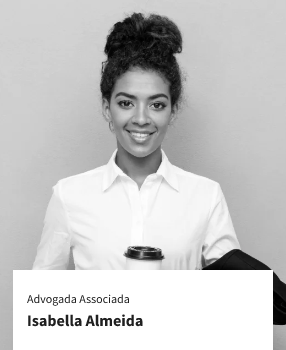
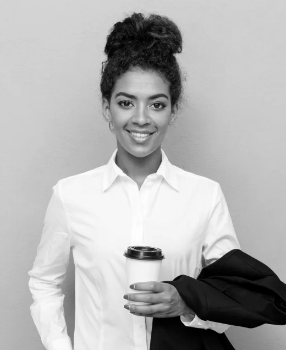
css semi finalizado cards equipe

Changed region(s): [[0.028, 0.7714, 0.979, 1.0]]

diff --git a/assets/css/style.css b/assets/css/style.css
@@ -737,6 +737,16 @@ a {
   position: relative;
   height: 350px;
   overflow: hidden;
+  transition: all 0.3s;
+}
+.equipe-txt .equipe-txt-card:hover .equipe-txt-adv {
+  transform: translateX(-50%) translateY(0px);
+}
+.equipe-txt .equipe-txt-card:hover .equipe-txt-hidden {
+  display: block;
+}
+.equipe-txt .equipe-txt-card img {
+  height: 350px;
 }
 .equipe-txt .equipe-txt-adv {
   background-color: #fff;
@@ -744,6 +754,27 @@ a {
   bottom: 0;
   left: 50%;
   width: 90%;
-  transform: translateX(-50%);
-  transition: all 0.3s;
+  transform: translateX(-50%) translateY(40px);
+  margin-top: -40px;
+  padding: 20px 20px 60px 20px;
+}
+.equipe-txt .equipe-txt-cat {
+  font-size: 12px;
+  line-height: 100%;
+}
+.equipe-txt .equipe-txt-nome {
+  font-size: 16px;
+  line-height: 140%;
+  font-weight: 700;
+}
+.equipe-txt .equipe-txt-desc {
+  font-size: 12px;
+  line-height: 140%;
+}
+.equipe-txt .equipe-txt-oab {
+  font-size: 14px;
+  line-height: 140%;
+}
+.equipe-txt .equipe-txt-hidden {
+  display: none;
 }/*# sourceMappingURL=style.css.map */

diff --git a/assets/css/elements/others/_adv.scss b/assets/css/elements/others/_adv.scss
@@ -33,6 +33,20 @@
     position: relative;
     height: 350px;
     overflow: hidden;
+    transition: all 0.3s;
+
+    &:hover {
+      .equipe-txt-adv {
+        transform: translateX(-50%) translateY(00px);
+      }
+
+      .equipe-txt-hidden {
+        display: block;
+      }
+    }
+    img {
+      height: 350px;
+    }
   }
   .equipe-txt-adv {
     background-color: $white;
@@ -40,8 +54,33 @@
     bottom: 0;
     left: 50%;
     width: 90%;
-    transform: translateX(-50%);
-    // margin-top: -40px;
-    transition: all 0.3s;
+    transform: translateX(-50%) translateY(40px);
+    margin-top: -40px;
+    padding: 20px 20px 60px 20px;
+  }
+
+  .equipe-txt-cat {
+    font-size: 12px;
+    line-height: 100%;
+  }
+
+  .equipe-txt-nome {
+    font-size: 16px;
+    line-height: 140%;
+    font-weight: 700;
+  }
+
+  .equipe-txt-desc {
+    font-size: 12px;
+    line-height: 140%;
+  }
+
+  .equipe-txt-oab {
+    font-size: 14px;
+    line-height: 140%;
+  }
+
+  .equipe-txt-hidden {
+    display: none;
   }
 }

diff --git a/equipe-koetz.html b/equipe-koetz.html
@@ -89,10 +89,12 @@
             <div class="equipe-txt-card">
               <img src="./assets/img/colaborador 1.png" alt="funcionario">
               <div class="equipe-txt-adv">
-                <p>Advogado Associado</p>
-                <p>Isabella Almeida</p>
-                <p>Isabella faz parte da equipe de análise de novos casos e planejamentos.</p>
-                <p class="equipe-oab">OAB-SC/90.201</p>
+                <p class="equipe-txt-cat">Advogado Associado</p>
+                <p class="equipe-txt-nome">Isabella Almeida</p>
+                <div class="equipe-txt-hidden">
+                  <p class="equipe-txt-desc">Isabella faz parte da equipe de análise de novos casos e planejamentos.</p>
+                  <p class="equipe-txt-oab">OAB-SC/90.201</p>
+                </div>
               </div>
             </div>
           </div>
